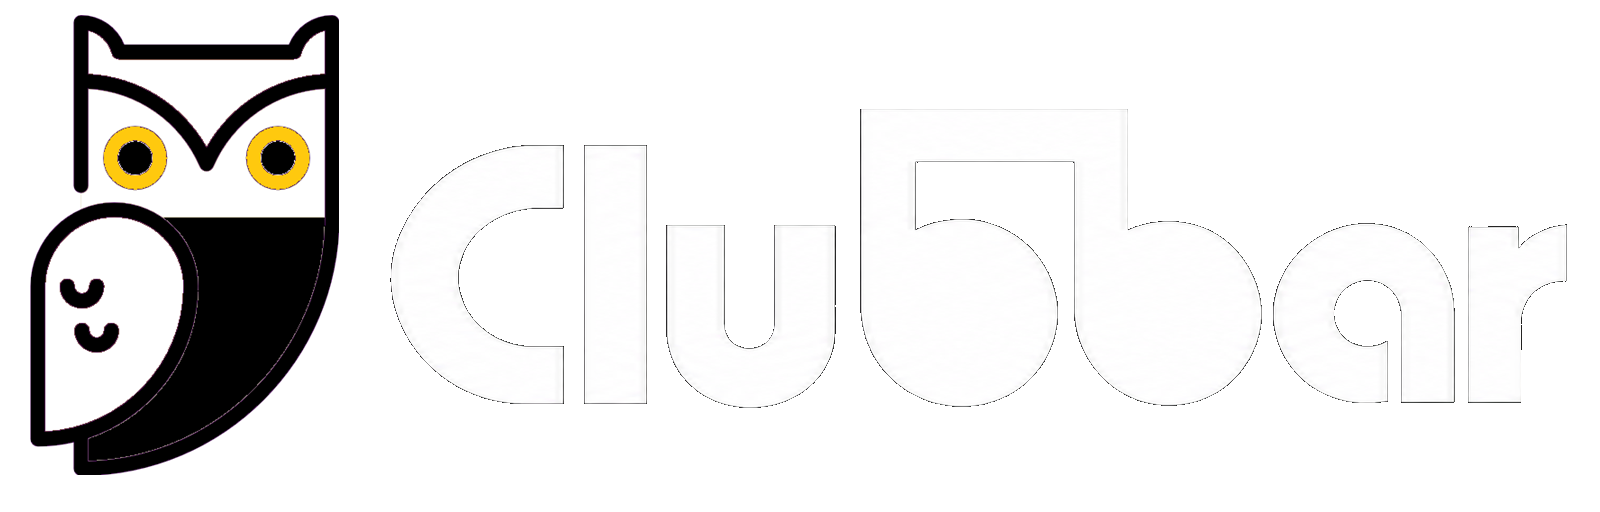
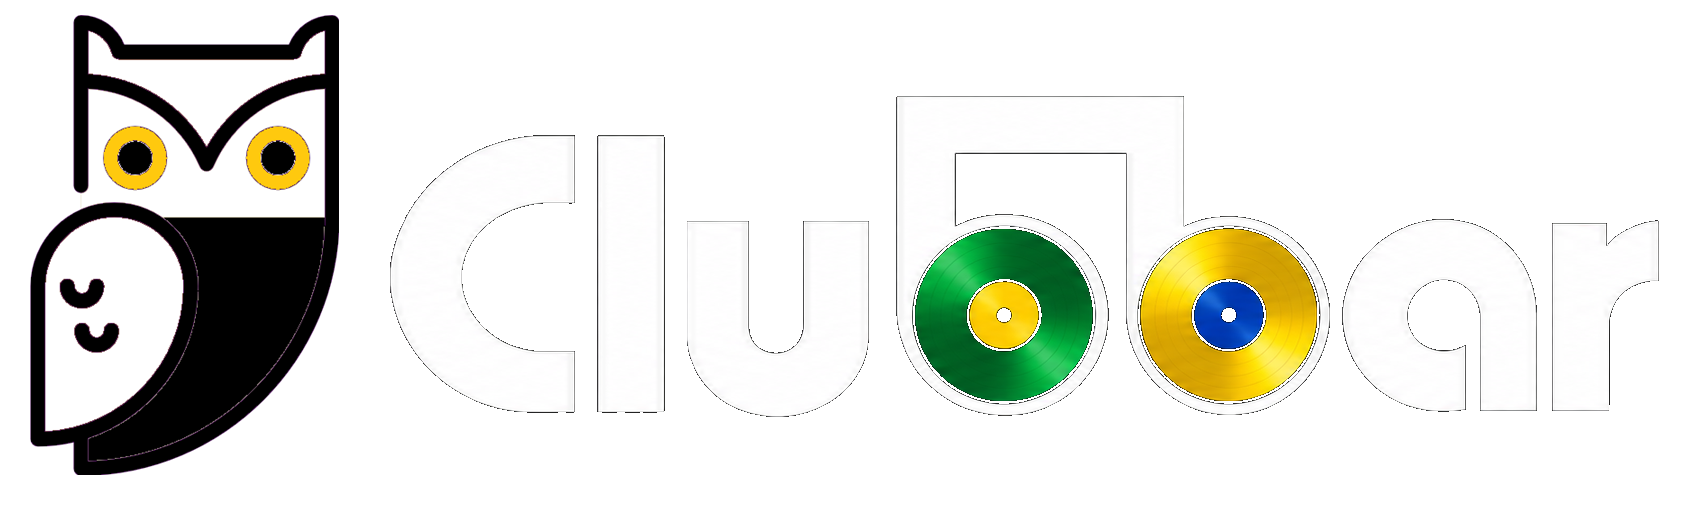
tela home

diff --git a/lib/widgets/clubbar_app_bar.dart b/lib/widgets/clubbar_app_bar.dart
@@ -64,8 +64,9 @@ class ClubbarAppBar extends StatelessWidget implements PreferredSizeWidget {
       elevation: 0,
       backgroundColor: const Color(0xFF000000),
       foregroundColor: Colors.white,
-      centerTitle: true,
+      centerTitle: temTitulo,
       toolbarHeight: 60,
+      titleSpacing: temTitulo ? NavigationToolbar.kMiddleSpacing : 8,
 
       leading: mostrarVoltar
           ? IconButton(
@@ -96,10 +97,13 @@ class ClubbarAppBar extends StatelessWidget implements PreferredSizeWidget {
                 fontWeight: FontWeight.w800,
               ),
             )
-          : Image.asset(
-              logoPath,
-              height: 70, // 🔥 AGORA FUNCIONA
-              fit: BoxFit.contain,
+          : Align(
+              alignment: Alignment.centerLeft,
+              child: Image.asset(
+                logoPath,
+                height: 70, // 🔥 AGORA FUNCIONA
+                fit: BoxFit.contain,
+              ),
             ),
 
       actions: [
